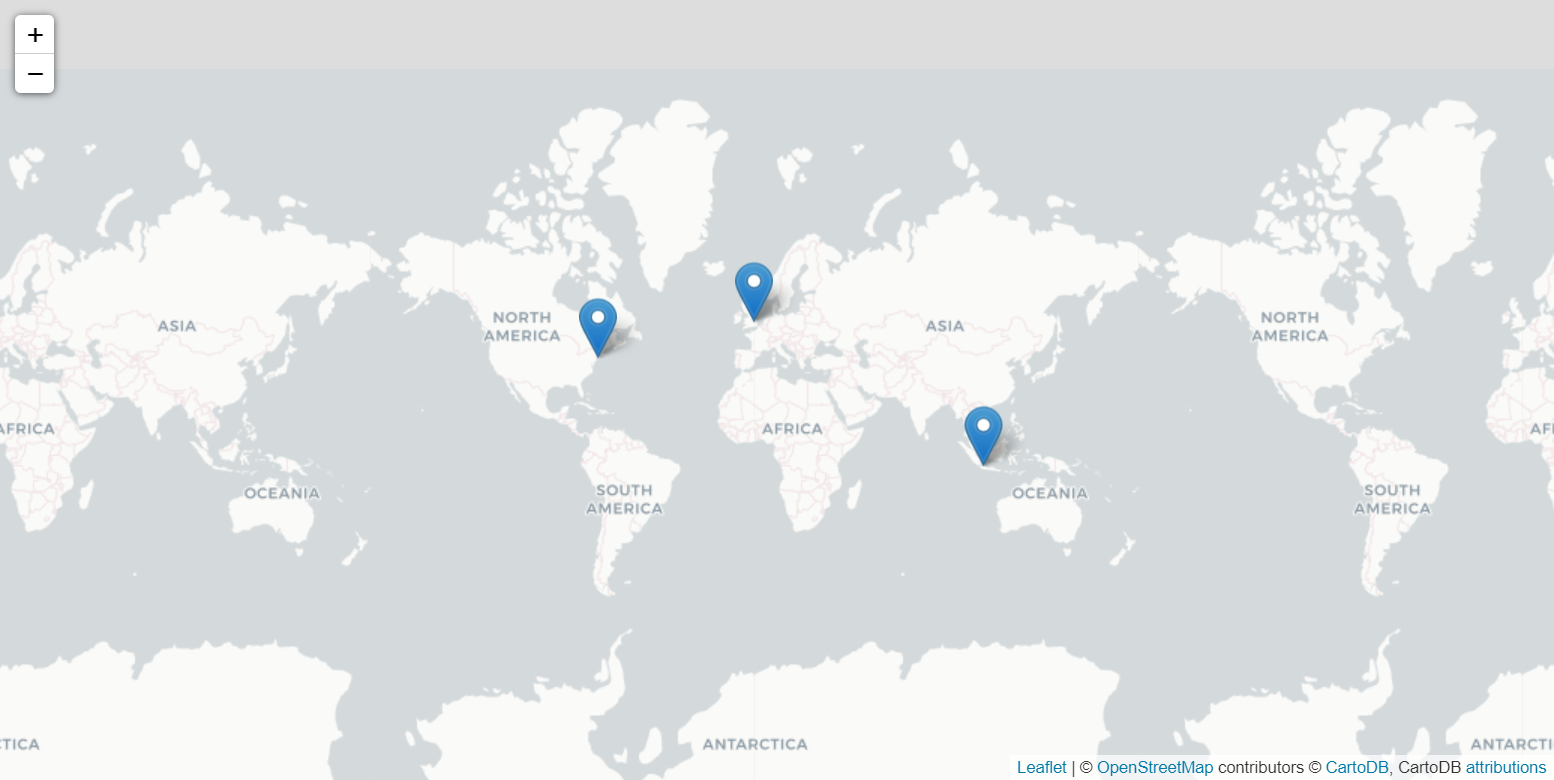
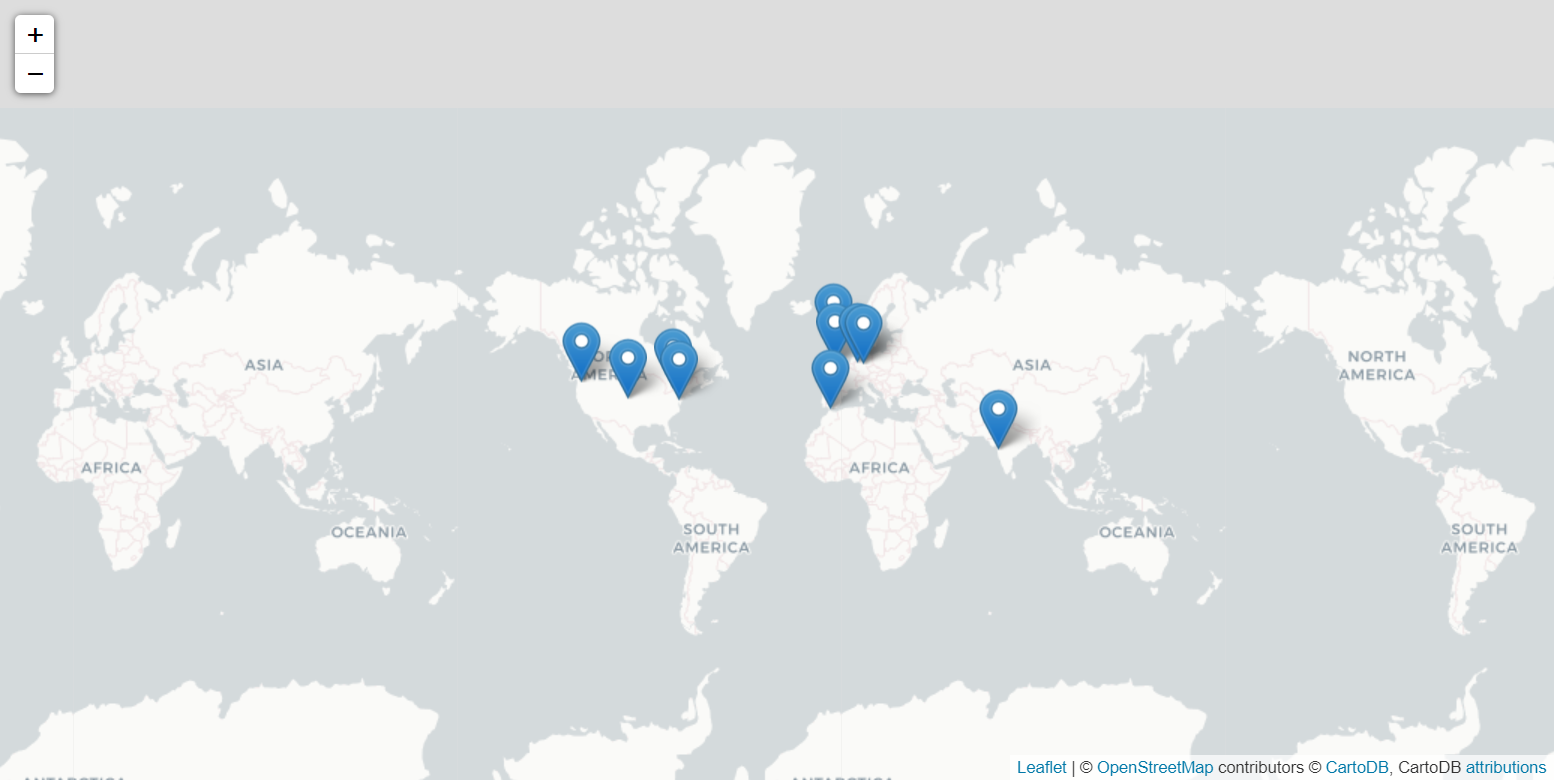
modifications UPDATE
text widget with scrollbar in the main window to show the tweets and their locations instead of messagebox

diff --git a/Modifications/map.html b/Modifications/map.html
@@ -23,7 +23,7 @@
             <meta name="viewport" content="width=device-width,
                 initial-scale=1.0, maximum-scale=1.0, user-scalable=no" />
             <style>
-                #map_2ae09d5d6e524b248a8c7a5cca1c7d6d {
+                #map_3840547ddeee482dae5fdeb90269ea4f {
                     position: relative;
                     width: 100.0%;
                     height: 100.0%;
@@ -35,15 +35,15 @@
 </head>
 <body>    
     
-            <div class="folium-map" id="map_2ae09d5d6e524b248a8c7a5cca1c7d6d" ></div>
+            <div class="folium-map" id="map_3840547ddeee482dae5fdeb90269ea4f" ></div>
         
 </body>
 <script>    
     
-            var map_2ae09d5d6e524b248a8c7a5cca1c7d6d = L.map(
-                "map_2ae09d5d6e524b248a8c7a5cca1c7d6d",
+            var map_3840547ddeee482dae5fdeb90269ea4f = L.map(
+                "map_3840547ddeee482dae5fdeb90269ea4f",
                 {
-                    center: [28.887120266666667, 10.810432433333338],
+                    center: [43.40508434499999, -30.181713679143503],
                     crs: L.CRS.EPSG3857,
                     zoom: 1,
                     zoomControl: true,
@@ -55,64 +55,197 @@
 
         
     
-            var tile_layer_a19c8691d2e14d3eb42b86ef04fb589e = L.tileLayer(
+            var tile_layer_546c0bba8aa9414ebd6703572e7b8a33 = L.tileLayer(
                 "https://cartodb-basemaps-{s}.global.ssl.fastly.net/light_all/{z}/{x}/{y}.png",
                 {"attribution": "\u0026copy; \u003ca href=\"http://www.openstreetmap.org/copyright\"\u003eOpenStreetMap\u003c/a\u003e contributors \u0026copy; \u003ca href=\"http://cartodb.com/attributions\"\u003eCartoDB\u003c/a\u003e, CartoDB \u003ca href =\"http://cartodb.com/attributions\"\u003eattributions\u003c/a\u003e", "detectRetina": false, "maxNativeZoom": 7, "maxZoom": 7, "minZoom": 0, "noWrap": false, "opacity": 1, "subdomains": "abc", "tms": false}
-            ).addTo(map_2ae09d5d6e524b248a8c7a5cca1c7d6d);
+            ).addTo(map_3840547ddeee482dae5fdeb90269ea4f);
         
     
-            var marker_0ef4485050bf44e99ee042931cc73e2b = L.marker(
-                [52.1240269, -0.3898705],
+            var marker_94df50adb86746a2a8e87202d36610c6 = L.marker(
+                [39.155815950000004, -76.55288309143504],
                 {}
-            ).addTo(map_2ae09d5d6e524b248a8c7a5cca1c7d6d);
+            ).addTo(map_3840547ddeee482dae5fdeb90269ea4f);
         
     
-        var popup_fc141ef530f642f28fb01b31a9e82956 = L.popup({"maxWidth": "100%"});
+        var popup_4d7f6af6612846ff92a134cdcb7806b8 = L.popup({"maxWidth": "100%"});
 
         
-            var html_acb1002446ce48c9845861d4debded20 = $(`<div id="html_acb1002446ce48c9845861d4debded20" style="width: 100.0%; height: 100.0%;">Hot off the press - taking names for Archery Beginners Course -March 22 #archery #Bedford #something new! Based at… https://t.co/bRLvA9Pw8Y</div>`)[0];
-            popup_fc141ef530f642f28fb01b31a9e82956.setContent(html_acb1002446ce48c9845861d4debded20);
+            var html_9fa9e75f1c7a40ddb614ba425f81758a = $(`<div id="html_9fa9e75f1c7a40ddb614ba425f81758a" style="width: 100.0%; height: 100.0%;">RT @dogofthedaycom: Thursday's Dog of the Day is #sweet Patrick, a #Bearded #Collie #love - read his #story at https://t.co/DNJgR0ZGII   #d…</div>`)[0];
+            popup_4d7f6af6612846ff92a134cdcb7806b8.setContent(html_9fa9e75f1c7a40ddb614ba425f81758a);
         
 
-        marker_0ef4485050bf44e99ee042931cc73e2b.bindPopup(popup_fc141ef530f642f28fb01b31a9e82956)
+        marker_94df50adb86746a2a8e87202d36610c6.bindPopup(popup_4d7f6af6612846ff92a134cdcb7806b8)
         ;
 
         
     
     
-            var marker_b050c9f4c4554fabb6427f03b00708f3 = L.marker(
-                [40.7127281, -74.0060152],
+            var marker_917e56c46a394e84961bc626d4ef330a = L.marker(
+                [19.0759899, 72.8773928],
                 {}
-            ).addTo(map_2ae09d5d6e524b248a8c7a5cca1c7d6d);
+            ).addTo(map_3840547ddeee482dae5fdeb90269ea4f);
         
     
-        var popup_306353f22ac7452dba55307d878c8ad6 = L.popup({"maxWidth": "100%"});
+        var popup_155ea4da0c1b4a3590ae182502c153b1 = L.popup({"maxWidth": "100%"});
 
         
-            var html_712db42a230a400ea17ece3f979c449e = $(`<div id="html_712db42a230a400ea17ece3f979c449e" style="width: 100.0%; height: 100.0%;">#Something is #Better Than Nothing.  #GetWhatYouCanGet while you can get it  #GetWhatYouWant  #NothingIsImpossible… https://t.co/LfEXsGY4eI</div>`)[0];
-            popup_306353f22ac7452dba55307d878c8ad6.setContent(html_712db42a230a400ea17ece3f979c449e);
+            var html_215e5fe891294e5ca9a5089757209efa = $(`<div id="html_215e5fe891294e5ca9a5089757209efa" style="width: 100.0%; height: 100.0%;">RT @nikkitamboli: Haar jeet lagi rehti hai  Zindagi ki wahi Neeti hai  Joa haarta hai usi ko jeet milti hai  #love #positivity #peace</div>`)[0];
+            popup_155ea4da0c1b4a3590ae182502c153b1.setContent(html_215e5fe891294e5ca9a5089757209efa);
         
 
-        marker_b050c9f4c4554fabb6427f03b00708f3.bindPopup(popup_306353f22ac7452dba55307d878c8ad6)
+        marker_917e56c46a394e84961bc626d4ef330a.bindPopup(popup_155ea4da0c1b4a3590ae182502c153b1)
         ;
 
         
     
     
-            var marker_a36371efff42463a82a0daabc0e10691 = L.marker(
-                [-6.1753942, 106.827183],
+            var marker_90b307d82c4b4d55b63474c7b8dac36b = L.marker(
+                [51.4764367, -3.1852707],
                 {}
-            ).addTo(map_2ae09d5d6e524b248a8c7a5cca1c7d6d);
+            ).addTo(map_3840547ddeee482dae5fdeb90269ea4f);
         
     
-        var popup_7f8dfa53ac78448da9435474d0ef3e57 = L.popup({"maxWidth": "100%"});
+        var popup_1dc074da55b1470d8115c547ce74dd49 = L.popup({"maxWidth": "100%"});
 
         
-            var html_8863dd22ce074edd860cb87d1d984d5c = $(`<div id="html_8863dd22ce074edd860cb87d1d984d5c" style="width: 100.0%; height: 100.0%;">#Hadith   #ProphetMuhammad said  If #someone is #given #something  he should give a #return for it provided he can… https://t.co/YkU5QTY0db</div>`)[0];
-            popup_7f8dfa53ac78448da9435474d0ef3e57.setContent(html_8863dd22ce074edd860cb87d1d984d5c);
+            var html_dbacc1eeac034451b420d6efafc78c0e = $(`<div id="html_dbacc1eeac034451b420d6efafc78c0e" style="width: 100.0%; height: 100.0%;">Wings if Glory ☺🌮🥑  44 Tudor Street, Cardiff (CF11 6AH) #tapas #quesadilla #food #Cardiff #mexican #Spanish #love… https://t.co/c4gWG4dlQv</div>`)[0];
+            popup_1dc074da55b1470d8115c547ce74dd49.setContent(html_dbacc1eeac034451b420d6efafc78c0e);
         
 
-        marker_a36371efff42463a82a0daabc0e10691.bindPopup(popup_7f8dfa53ac78448da9435474d0ef3e57)
+        marker_90b307d82c4b4d55b63474c7b8dac36b.bindPopup(popup_1dc074da55b1470d8115c547ce74dd49)
+        ;
+
+        
+    
+    
+            var marker_0dcd29b982c942f6a362bc9d3514d62c = L.marker(
+                [39.7837304, -100.445882],
+                {}
+            ).addTo(map_3840547ddeee482dae5fdeb90269ea4f);
+        
+    
+        var popup_d3880d5144344d2ab1c31a68df325213 = L.popup({"maxWidth": "100%"});
+
+        
+            var html_7025a565bcfe459b956fdcebc16516b2 = $(`<div id="html_7025a565bcfe459b956fdcebc16516b2" style="width: 100.0%; height: 100.0%;">RT @DaveSpherical: Last #raptor of today, best looking, super hot, fabulous #owl the Short Eared Owl having a rest while hunting on the Eas…</div>`)[0];
+            popup_d3880d5144344d2ab1c31a68df325213.setContent(html_7025a565bcfe459b956fdcebc16516b2);
+        
+
+        marker_0dcd29b982c942f6a362bc9d3514d62c.bindPopup(popup_d3880d5144344d2ab1c31a68df325213)
+        ;
+
+        
+    
+    
+            var marker_5e64c54050c249e38b892cef60fe3e77 = L.marker(
+                [51.0, 10.0],
+                {}
+            ).addTo(map_3840547ddeee482dae5fdeb90269ea4f);
+        
+    
+        var popup_19ae8f69fad74bf68ffa3a1d1cd8fda7 = L.popup({"maxWidth": "100%"});
+
+        
+            var html_c80e61e4f6dd42ac8a38bc1d2bb0e610 = $(`<div id="html_c80e61e4f6dd42ac8a38bc1d2bb0e610" style="width: 100.0%; height: 100.0%;">Handmade Knitted Kid Mohair And Silk Infinity Scarf For Women by WoolyKnitt https://t.co/NgZeLnEDyy via @Etsy… https://t.co/wLUcafOLsf</div>`)[0];
+            popup_19ae8f69fad74bf68ffa3a1d1cd8fda7.setContent(html_c80e61e4f6dd42ac8a38bc1d2bb0e610);
+        
+
+        marker_5e64c54050c249e38b892cef60fe3e77.bindPopup(popup_19ae8f69fad74bf68ffa3a1d1cd8fda7)
+        ;
+
+        
+    
+    
+            var marker_3f93e6f734c440e399c6e0f921007a3e = L.marker(
+                [45.5202471, -122.6741949],
+                {}
+            ).addTo(map_3840547ddeee482dae5fdeb90269ea4f);
+        
+    
+        var popup_46d313a79e72456fa44d3f5a578c735a = L.popup({"maxWidth": "100%"});
+
+        
+            var html_7c63bc59df964098be1c70f290860d90 = $(`<div id="html_7c63bc59df964098be1c70f290860d90" style="width: 100.0%; height: 100.0%;">Crazy cat https://t.co/upDZbEhaPa #cat #cats #catsofinstagram #catstagram #of #catlover #instagram #catlife… https://t.co/n3ZSdGHiCR</div>`)[0];
+            popup_46d313a79e72456fa44d3f5a578c735a.setContent(html_7c63bc59df964098be1c70f290860d90);
+        
+
+        marker_3f93e6f734c440e399c6e0f921007a3e.bindPopup(popup_46d313a79e72456fa44d3f5a578c735a)
+        ;
+
+        
+    
+    
+            var marker_de6550dcb7a24bf496f904061c265cb9 = L.marker(
+                [51.4582235, 7.0158171],
+                {}
+            ).addTo(map_3840547ddeee482dae5fdeb90269ea4f);
+        
+    
+        var popup_6bd5156957994501914e0e8a9bf5dafb = L.popup({"maxWidth": "100%"});
+
+        
+            var html_a58d0e1f025d49de82560eca9934bbc8 = $(`<div id="html_a58d0e1f025d49de82560eca9934bbc8" style="width: 100.0%; height: 100.0%;">RT @ErinaMeye: Wer Lust auf ein Treffen oder Bilder Und Videos unzensiert hat schreibt mich gerne an 😇❤   Ich habe gehört bei 100 Retweets…</div>`)[0];
+            popup_6bd5156957994501914e0e8a9bf5dafb.setContent(html_a58d0e1f025d49de82560eca9934bbc8);
+        
+
+        marker_de6550dcb7a24bf496f904061c265cb9.bindPopup(popup_6bd5156957994501914e0e8a9bf5dafb)
+        ;
+
+        
+    
+    
+            var marker_ea39fff1c200448691ebdc890ff4b933 = L.marker(
+                [56.7861112, -4.1140518],
+                {}
+            ).addTo(map_3840547ddeee482dae5fdeb90269ea4f);
+        
+    
+        var popup_bfdf6b3be7df45a58e5066ed5d520bee = L.popup({"maxWidth": "100%"});
+
+        
+            var html_0b30564d45dc47319ecc904c66787dbb = $(`<div id="html_0b30564d45dc47319ecc904c66787dbb" style="width: 100.0%; height: 100.0%;">RT @siriusanimalre1: I'm sure we can all relate to this ♥  #BestFriend #DogsOfTwitter #Love #AdoptDontShop 🌟 https://t.co/dNLKzvYeZj</div>`)[0];
+            popup_bfdf6b3be7df45a58e5066ed5d520bee.setContent(html_0b30564d45dc47319ecc904c66787dbb);
+        
+
+        marker_ea39fff1c200448691ebdc890ff4b933.bindPopup(popup_bfdf6b3be7df45a58e5066ed5d520bee)
+        ;
+
+        
+    
+    
+            var marker_f18ddcf248de4d12a812c7049cde878c = L.marker(
+                [36.140807, -5.3541295],
+                {}
+            ).addTo(map_3840547ddeee482dae5fdeb90269ea4f);
+        
+    
+        var popup_a55a77755e1b4cb186249e98f658e6b9 = L.popup({"maxWidth": "100%"});
+
+        
+            var html_afda4422737e4902b8f3eadff32ef0c1 = $(`<div id="html_afda4422737e4902b8f3eadff32ef0c1" style="width: 100.0%; height: 100.0%;">#Now playing on @Glams_Radio : #Jammin' (Original Mix) by #Michael Fall &amp; Charlie Atom! Tune in now and enjoy sound… https://t.co/DmvxsYWhKR</div>`)[0];
+            popup_a55a77755e1b4cb186249e98f658e6b9.setContent(html_afda4422737e4902b8f3eadff32ef0c1);
+        
+
+        marker_f18ddcf248de4d12a812c7049cde878c.bindPopup(popup_a55a77755e1b4cb186249e98f658e6b9)
+        ;
+
+        
+    
+    
+            var marker_391bfcfa54ef43c1804936851779e6d0 = L.marker(
+                [43.6534817, -79.3839347],
+                {}
+            ).addTo(map_3840547ddeee482dae5fdeb90269ea4f);
+        
+    
+        var popup_f16b43ab7d6743489419fbf0001806af = L.popup({"maxWidth": "100%"});
+
+        
+            var html_48192666776f4ea4aed6c8a9e7fafeb1 = $(`<div id="html_48192666776f4ea4aed6c8a9e7fafeb1" style="width: 100.0%; height: 100.0%;">RT @Quotemylover: Go and get your love quotes at https://t.co/G0ZSY7OeDp. We provide daily romantic quotes you don't want to miss. #love, #…</div>`)[0];
+            popup_f16b43ab7d6743489419fbf0001806af.setContent(html_48192666776f4ea4aed6c8a9e7fafeb1);
+        
+
+        marker_391bfcfa54ef43c1804936851779e6d0.bindPopup(popup_f16b43ab7d6743489419fbf0001806af)
         ;
 
         

diff --git a/Modifications/plot_map.py b/Modifications/plot_map.py
@@ -3,7 +3,7 @@ import time
 from selenium import webdriver
 import folium
 from numpy import mean
-from tkinter import messagebox
+from tkinter import Text, Scrollbar
 
 
 def create_map_markers(plotted_map, tweets):
@@ -37,17 +37,19 @@ def generate_lat_long_locations(locations):
     return latitude, longitude
 
 
-def print_tweets(list_of_tweets, list_of_locations):
+def print_tweets(list_of_tweets, list_of_locations, window):
     """
     Function to print all tweets generated (their text, location and
     coordinates)
+    :param window: main window
     :param list_of_locations: list of locations' coordinates
     :param list_of_tweets: list of Tweet objects containing all the
     tweets generated
     :return: void
     """
-    nr_locations = "Number of locations on the map: " + str(len(list_of_locations))
-    lines = [nr_locations]
+    # Generate tweet information and number of locations
+    tweet_info = "Tweet info:"
+    lines = [tweet_info]
 
     for t in list_of_tweets:
         tweet_info = "Tweet text: " + str(t.text)
@@ -60,7 +62,21 @@ def print_tweets(list_of_tweets, list_of_locations):
         tweet_info = "----------------------------------------"
         lines.append(tweet_info)
 
-    messagebox.showinfo("Info", "\n".join(lines))
+    nr_locations = "Number of locations on the map: " + str(len(list_of_locations))
+    lines.append(nr_locations)
+
+    # Text widget with scrollbar to show tweet information and number of locations
+    text_widget = Text(window, width=50, height=20, wrap="none")
+    vertical_scroll = Scrollbar(window, orient='vertical', command=text_widget.yview)
+    horizontal_scroll = Scrollbar(window, orient='horizontal', command=text_widget.xview)
+    text_widget['yscrollcommand'] = vertical_scroll.set
+    text_widget['xscrollcommand'] = horizontal_scroll.set
+    text_widget.insert('end', "\n".join(lines))
+
+    # Add text widget and scrollbar in grid
+    text_widget.grid(column=0, row=4, sticky='nwes', padx=2, pady=2)
+    horizontal_scroll.grid(column=0, row=5, sticky='we')
+    vertical_scroll.grid(column=1, row=4, sticky='nws')
 
 
 def plot_map(latitude, longitude, tweets):
@@ -86,13 +102,14 @@ def plot_map(latitude, longitude, tweets):
     create_map_markers(plotted, tweets)
     path = "map.html"
 
+    # Save map as html
     delay = 5
     tmpurl = 'file://{path}/{mapfile}'.format(path=os.getcwd(), mapfile=path)
     plotted.save(path)
 
+    # Save map as png
     browser = webdriver.Chrome("F:\chromedriver.exe")
     browser.get(tmpurl)
-    # Give the map tiles some time to load
     time.sleep(delay)
     browser.save_screenshot("map.png")
     browser.quit()

diff --git a/Modifications/get_input_generate_output.py b/Modifications/get_input_generate_output.py
@@ -3,7 +3,7 @@ import plot_map as pm
 from tkinter import messagebox
 
 
-def submitted_input(hashtag_variable, number_variable):
+def submitted_input(hashtag_variable, number_variable, window):
     """
     Function to take the input from the user, troubleshoot for errors,
     process it, and when there no longer are any errors, call the function
@@ -37,10 +37,10 @@ def submitted_input(hashtag_variable, number_variable):
         error = True
 
     if not error:
-        generate_output(hashtag, number)
+        generate_output(hashtag, number, window)
 
 
-def generate_output(hashtag, number):
+def generate_output(hashtag, number, window):
     """
     Function to search for the most recent number tweets with the
     hashtag given by the user and plot these tweets on a map
@@ -50,7 +50,7 @@ def generate_output(hashtag, number):
     :return: void
     """
     tweets, locations = st.generate_tweets_with_hashtag(hashtag, number)
-    pm.print_tweets(tweets, locations)
+    pm.print_tweets(tweets, locations, window)
 
     if len(locations) > 0:
         latitude, longitude = pm.generate_lat_long_locations(locations)

diff --git a/Modifications/graphic_user_interface.py b/Modifications/graphic_user_interface.py
@@ -11,7 +11,7 @@ class GraphicInterface:
         # Create window
         self.window = t.Tk()
         self.window.title("Search for tweets")
-        self.window.geometry("600x200")
+        self.window.geometry("600x500")
         self.window.configure(background="black")
 
         # Get the hashtag from user
@@ -61,7 +61,7 @@ class GraphicInterface:
         order to avoid a circular import
         :return: void
         """
-        gigo.submitted_input(self.hashtag_variable, self.number_variable)
+        gigo.submitted_input(self.hashtag_variable, self.number_variable, self.window)
 
         # Open new window and show map photo
         newWindow = t.Toplevel(self.window)
